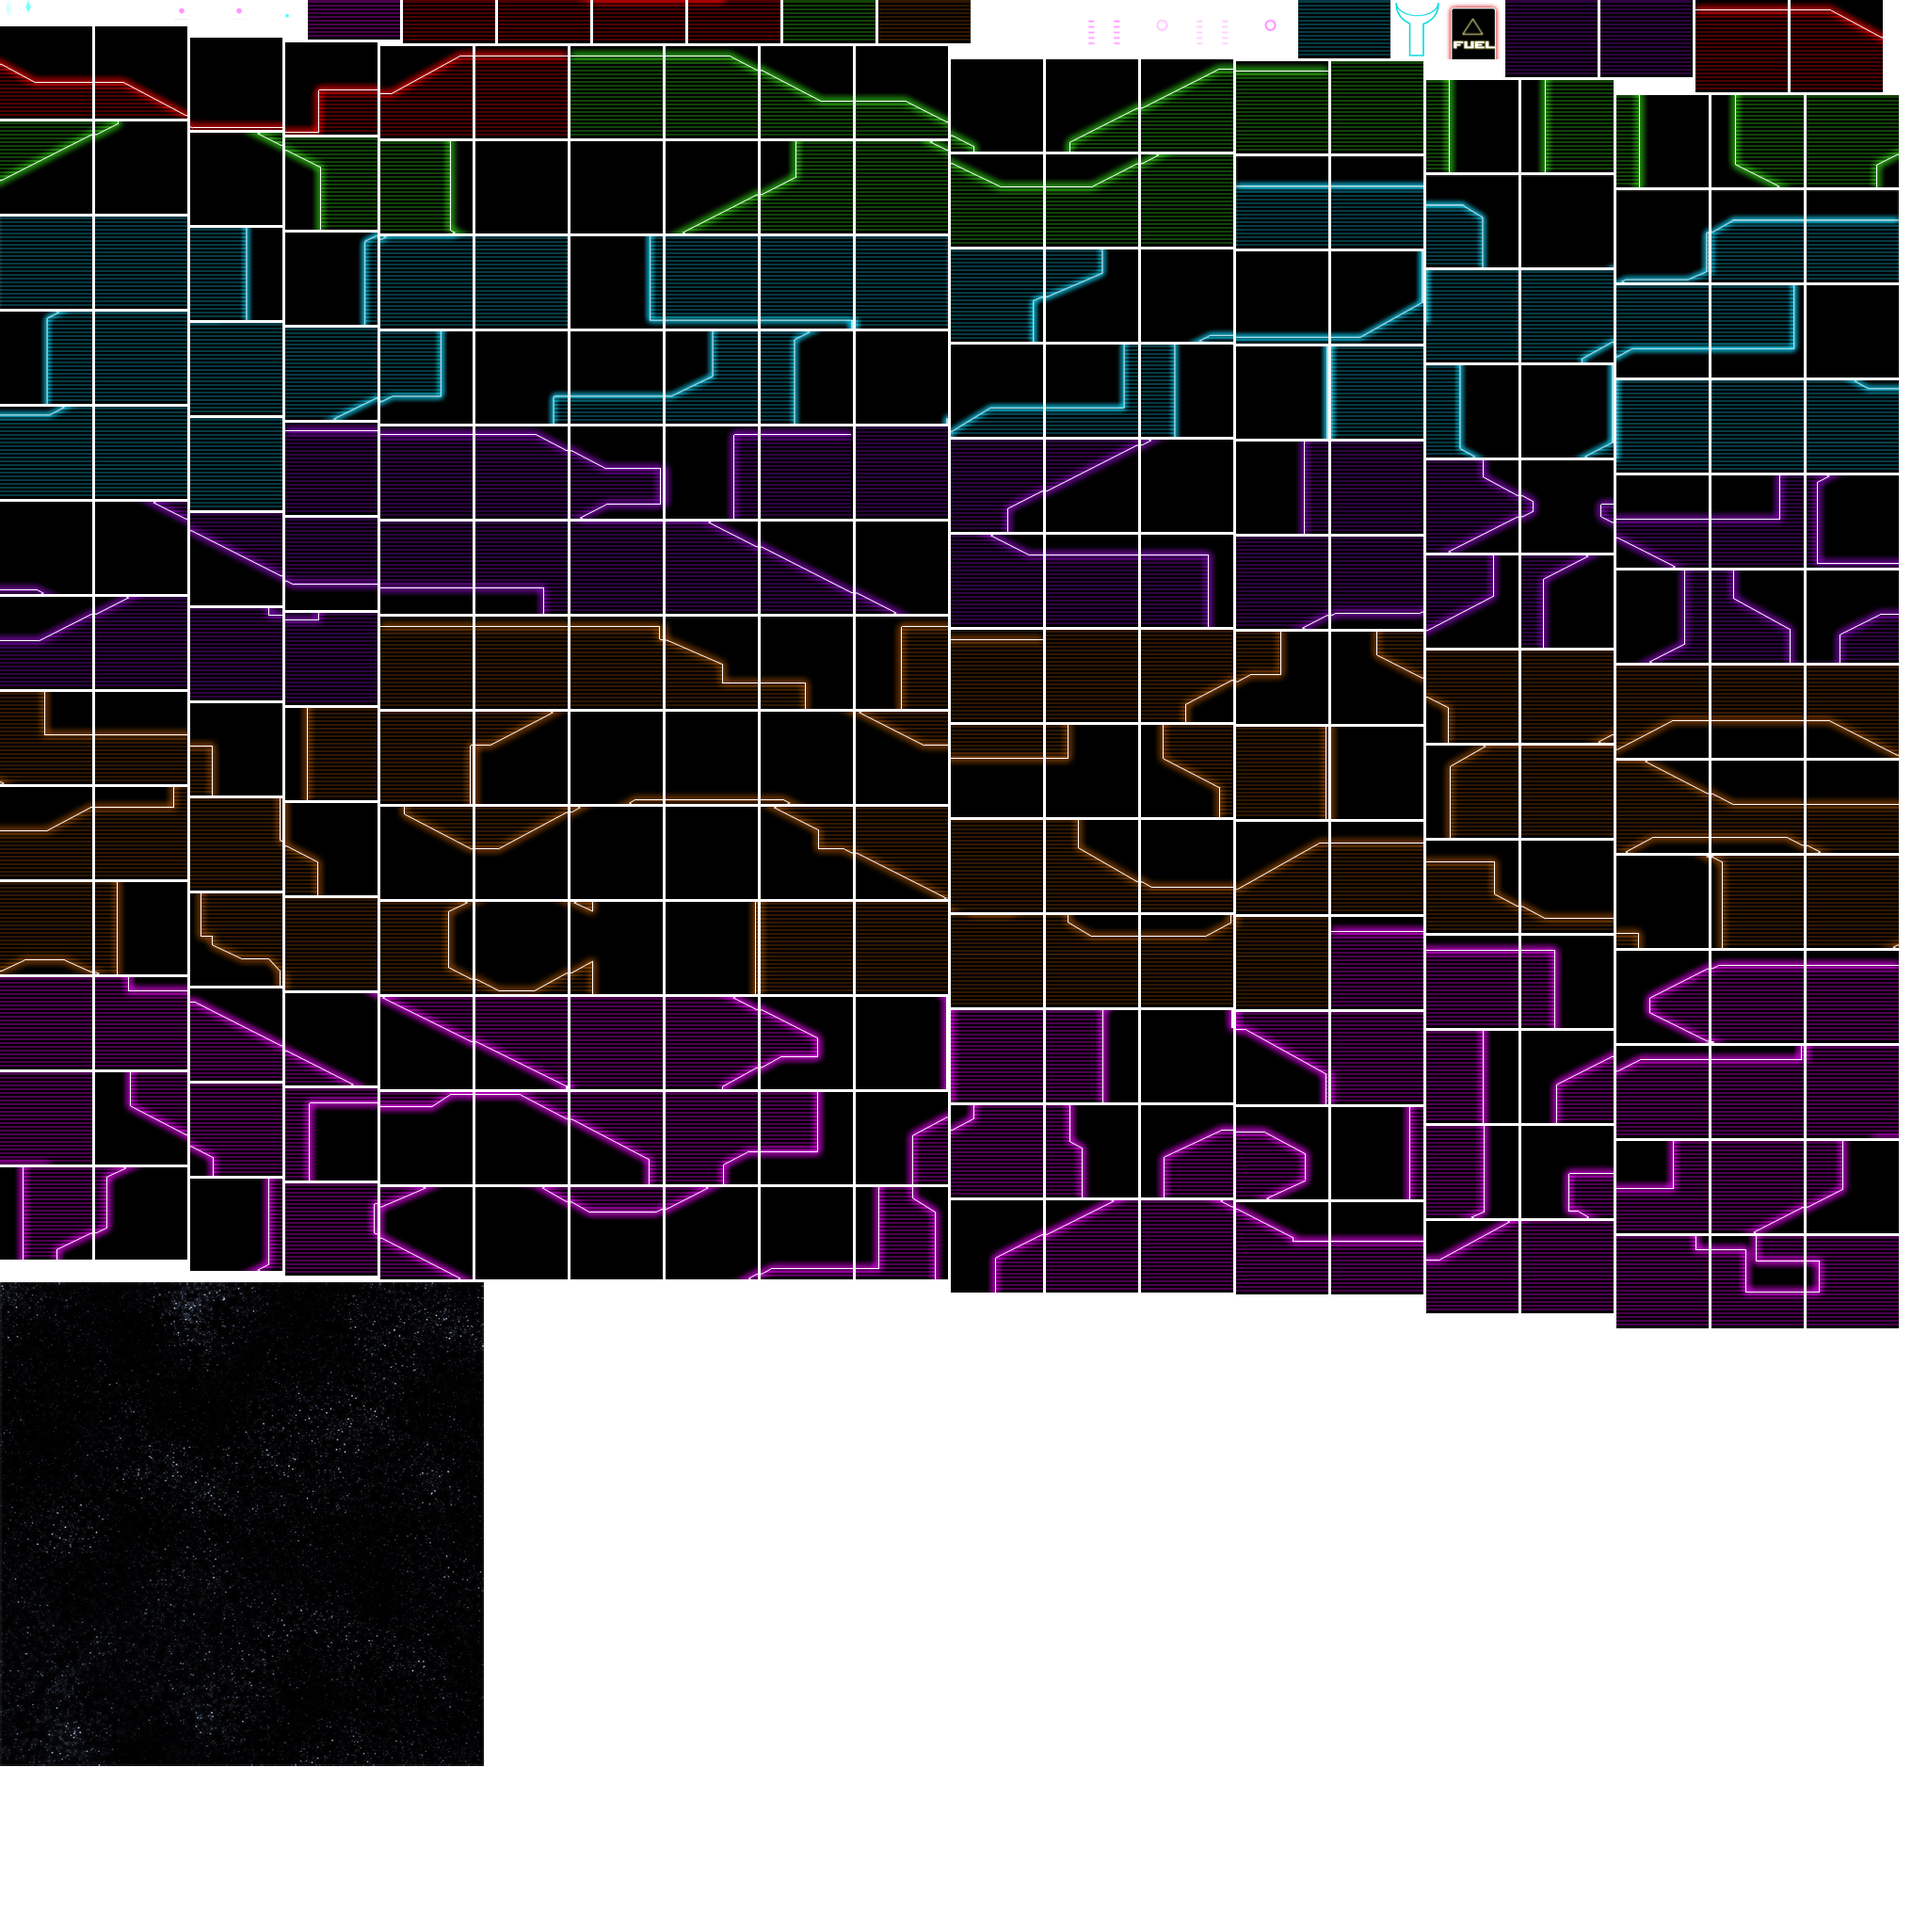
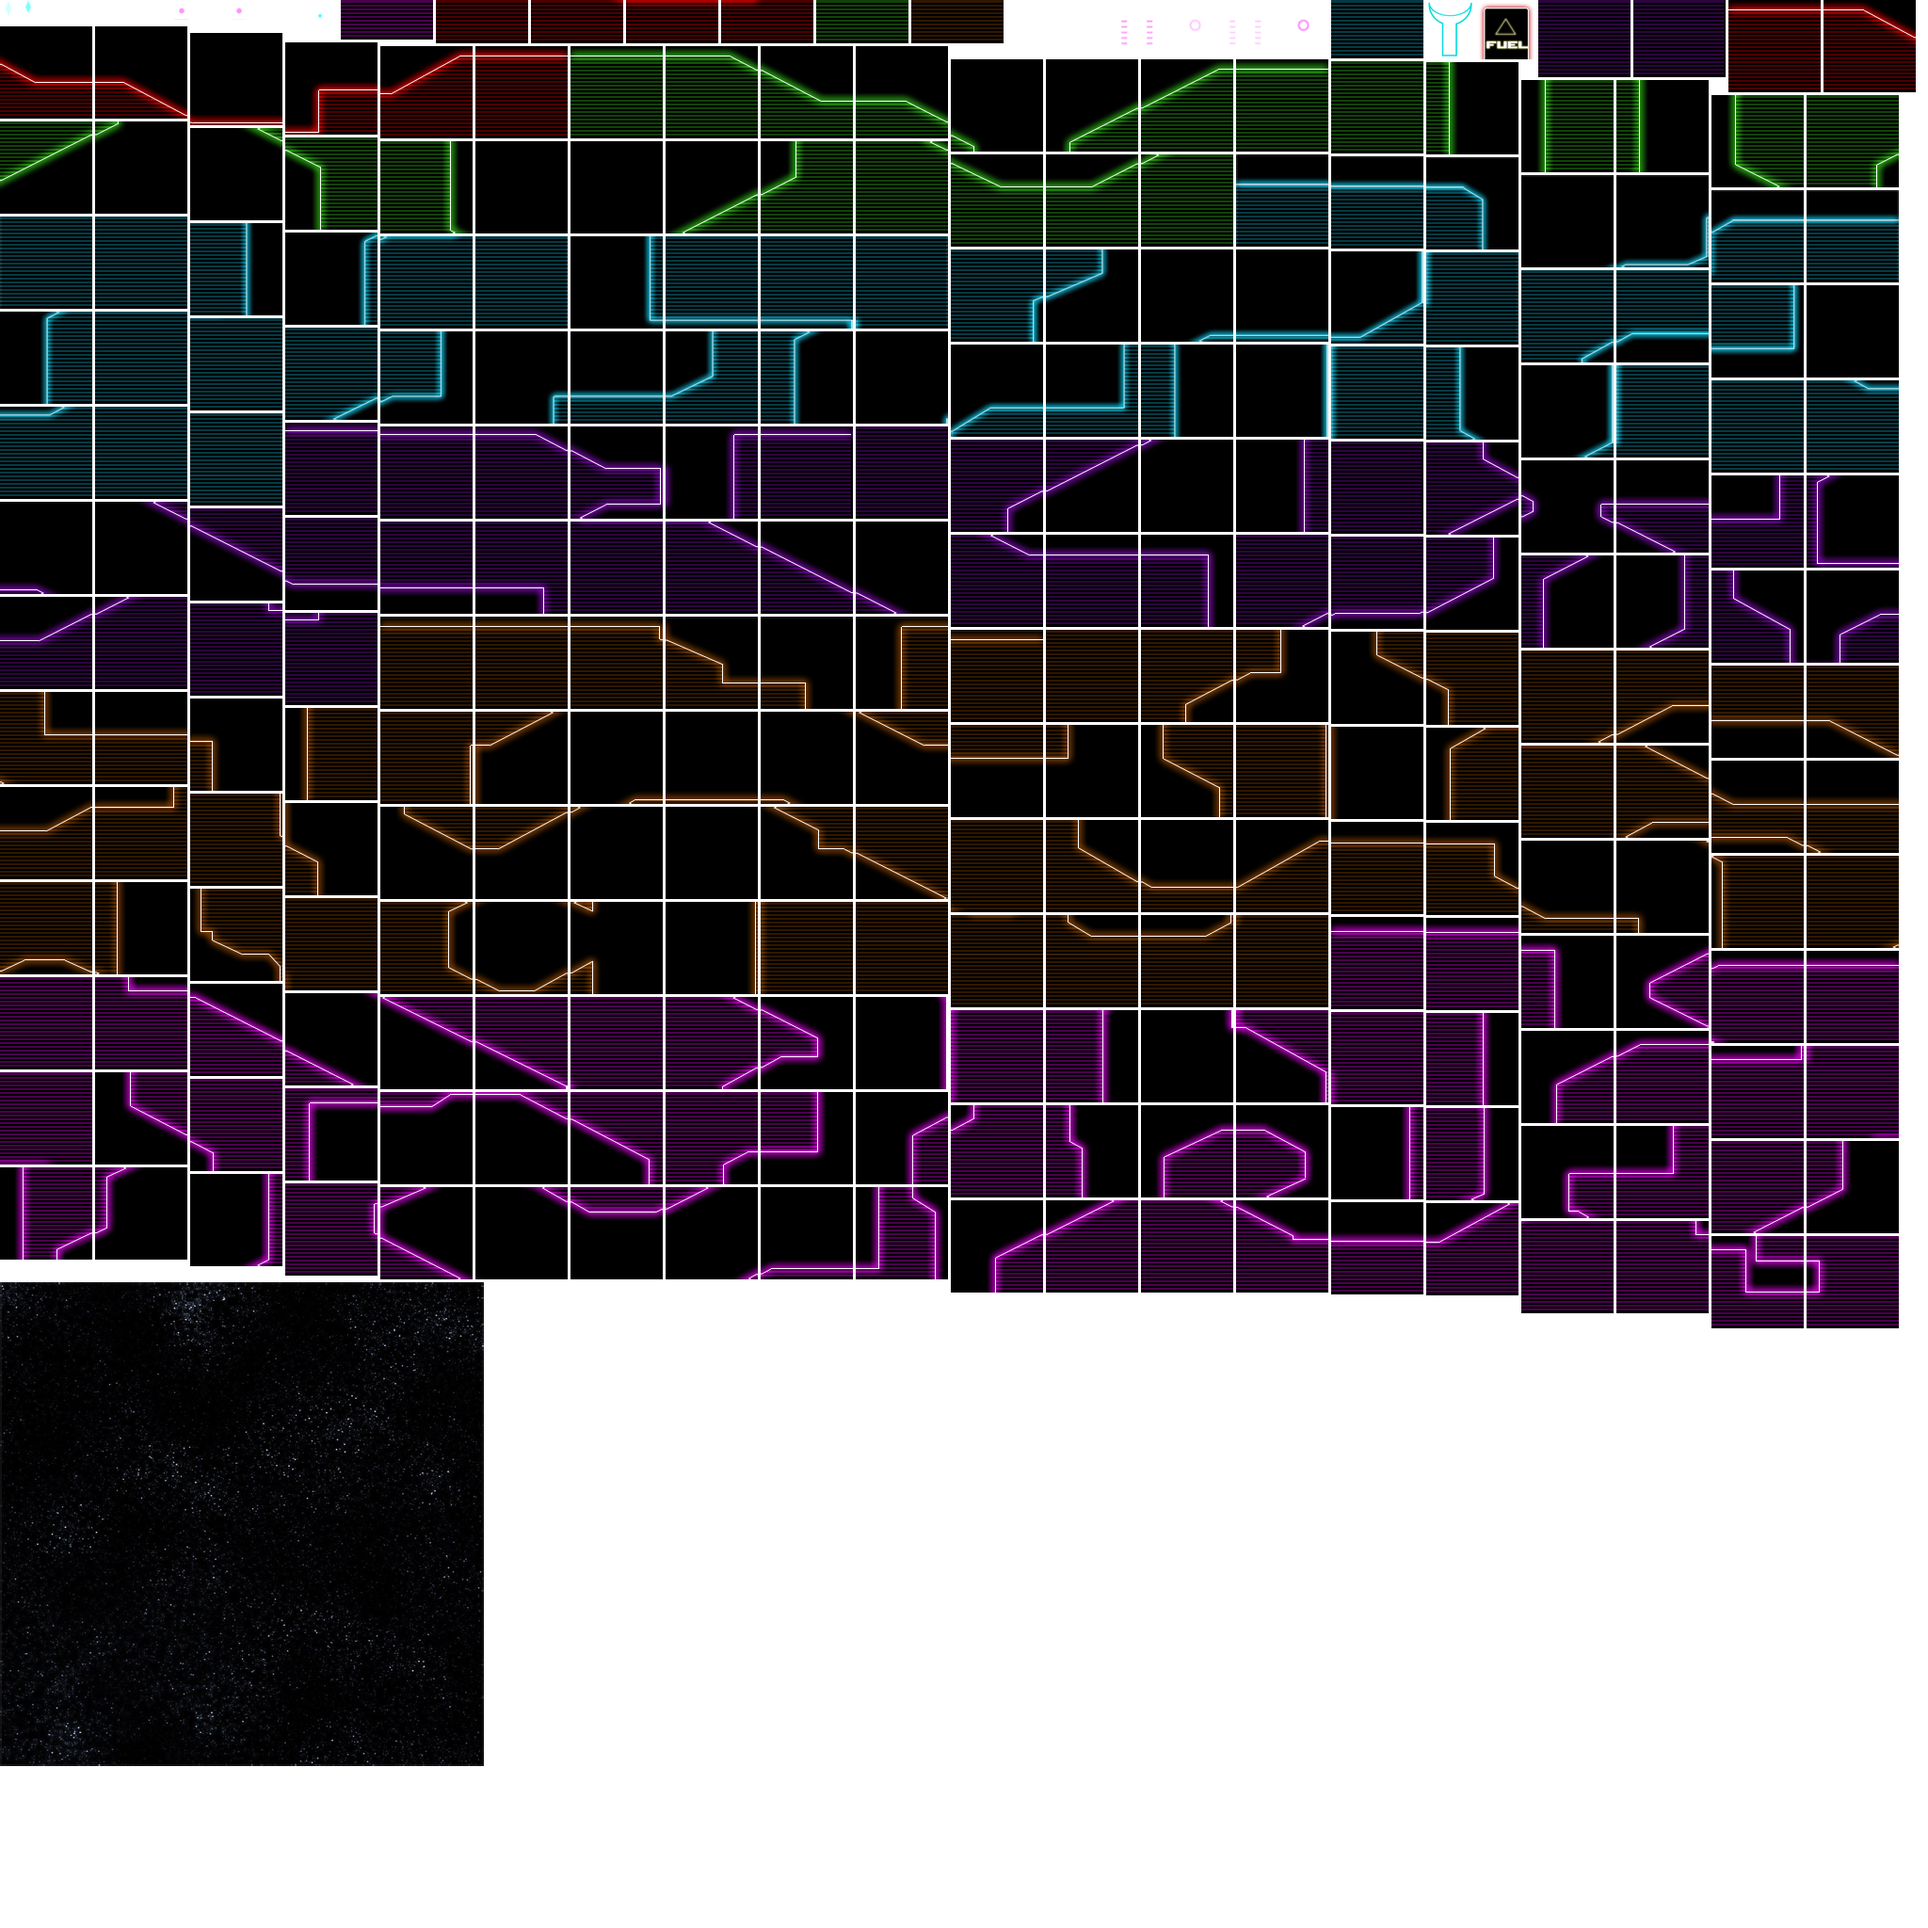
fixed training map and level gates

diff --git a/src/app/states/play.js b/src/app/states/play.js
@@ -495,7 +495,6 @@ module.exports = {
     this.groups = new Groups();
     this.collisions = new Collisions();
     if (properties.drawBackground) {
-      //gameState.trainingMode ? 'starfield' : 'stars';
       this.background = new Background(this.level);
     }
     particles.create();
@@ -517,7 +516,6 @@ module.exports = {
       this.collisions.set(this.orb.sprite, [this.collisions.players, this.collisions.terrain, this.collisions.enemyBullets]);
     } else {
       this.collisions.set(this.orb.sprite, [this.collisions.players, this.collisions.terrain, this.collisions.enemyBullets]);
-      //this.collisions.set(this.map, [this.collisions.players, this.collisions.orb]);
       this.createTrainingDrones();
     }
     this.cameraPos.x = this.player.x;
@@ -527,7 +525,7 @@ module.exports = {
   },
 
   createLevelMap: function() {
-    this.map = new MapAtlas(this.groups.terrain, this.level, this.level.useAtlas);
+    this.map = new MapAtlas(this.groups.terrain, this.level, 'combined', this.level.useAtlas);
     this.map.init();
     this.map.initPhysics(this.collisions);
     _.each(this.level.switches, _.bind(this.createSwitch, this));

diff --git a/src/app/actors/HoverDrone.js b/src/app/actors/HoverDrone.js
@@ -51,10 +51,10 @@ p.drawFlags = function (x, y, width) {
   var pos2 = new Phaser.Point(x, y - width / 2);
   var pos3 = new Phaser.Point(x + width / 2, y);
   var pos4 = new Phaser.Point(x, y + width / 2);
-  this.flag1 = game.add.sprite(pos1.x, pos1.y, 'drone', null, this.groups.drones);
-  this.flag2 = game.add.sprite(pos2.x, pos2.y, 'drone', null, this.groups.drones);
-  this.flag3 = game.add.sprite(pos3.x, pos3.y, 'drone', null, this.groups.drones);
-  this.flag4 = game.add.sprite(pos4.x, pos4.y, 'drone', null, this.groups.drones);
+  this.flag1 = game.add.sprite(pos1.x, pos1.y, 'combined', 'drone.png', this.groups.drones);
+  this.flag2 = game.add.sprite(pos2.x, pos2.y, 'combined', 'drone.png', this.groups.drones);
+  this.flag3 = game.add.sprite(pos3.x, pos3.y, 'combined', 'drone.png', this.groups.drones);
+  this.flag4 = game.add.sprite(pos4.x, pos4.y, 'combined', 'drone.png', this.groups.drones);
   this.flag1.anchor.setTo(0.5);
   this.flag2.anchor.setTo(0.5);
   this.flag3.anchor.setTo(0.5);

diff --git a/src/app/environment/levels/MapAtlas.js b/src/app/environment/levels/MapAtlas.js
@@ -12,13 +12,14 @@ var properties = require('../../properties');
  * @constructor
  * @param parentGroup
  * @param levelData
+ * @param key
  * @param isAtlas
  */
-function MapAtlas(parentGroup, levelData, isAtlas) {
+function MapAtlas(parentGroup, levelData, key, isAtlas) {
   this.isAtlas = isAtlas;
   this.x = levelData.mapPosition.x;
   this.y = levelData.mapPosition.y;
-  this.key = 'combined';
+  this.key = key;
   this.data = game.cache.getFrameData(this.key);
   this.group = game.add.group(parentGroup);
   this.parent = parentGroup;
@@ -125,6 +126,7 @@ p.initPhysics = function(collisions) {
     this.gateSprite.body.clearShapes();
     this.gateSprite.body.loadPolygon(this.gateCacheKey(), this.levelData.gateDataKey);
     this.gateSprite.body.setCollisionGroup(collisions.terrain);
+    collisions.set(this.gateSprite, [collisions.players, collisions.orb, collisions.bullets, collisions.enemyBullets]);
   }
 };
 

diff --git a/src/app/actors/GateSwitch.js b/src/app/actors/GateSwitch.js
@@ -26,7 +26,7 @@ function GateSwitch (collisions, groups, map, x, y, angleDeg) {
   bmd.ctx.closePath();
   bmd.ctx.stroke(); 
 
-  PhysicsActor.call(this, collisions, groups, bmd, x, y);
+  PhysicsActor.call(this, collisions, groups, bmd, null, x, y);
   this.map = map;
   this.angle = angleDeg;
   this.alive = true;
@@ -63,13 +63,7 @@ p.hit = function () {
   if (!this.timer) {
     this.timer = game.time.events.add(6000, this.closeGate, this);
   }
-  //
-  //particles.explode(this.x, this.y);
-  //this.kill();
-  //this.body.removeFromWorld();
-  //this.body.destroy();
-  //gameState.score+=gameState.SCORES.GateSwitch;
-  sound.playSound('boom3');
+  sound.playSound('select2');
 };
 
 p.closeGate = function() {

diff --git a/src/app/actors/Drone.js b/src/app/actors/Drone.js
@@ -46,8 +46,8 @@ p.drawFlags = function(x, y, width, rotation) {
   var pos = new Phaser.Point();
   pos.x = Math.cos(rotation) * width;
   pos.y = Math.sin(rotation) * width;
-  this.flag1 = game.add.sprite(x - pos.x, y + pos.y, 'drone', null, this.groups.drones);
-  this.flag2 = game.add.sprite(x + pos.x, y - pos.y, 'drone', null, this.groups.drones);
+  this.flag1 = game.add.sprite(x - pos.x, y + pos.y, 'combined', 'drone.png', this.groups.drones);
+  this.flag2 = game.add.sprite(x + pos.x, y - pos.y, 'combined', 'drone.png', this.groups.drones);
   var bmd = game.make.bitmapData(1, 1);
   bmd.rect(0,0,1,1, 'rgba(0, 255, 0, 0)');
   this.sensor = game.add.sprite(x + this.flag1.width/2, y, bmd);

diff --git a/src/app/properties.js b/src/app/properties.js
@@ -53,9 +53,10 @@ module.exports = {
       mapDataUrl: 'assets/levels/training.json',
       mapDataKey: 'training',
       mapScale: 2,
+      useAtlas: false,
       mapPosition: {
         x: 0,
-        y: 500
+        y: 1700
       },
       missionSwipe: {
         title: 'Flight Training',
@@ -68,13 +69,13 @@ module.exports = {
       },
       spawns: [{
         x: 1500,
-        y: 1500,
+        y: 1550,
         orb: false
       }],
       orbPosition: {x: 2600, y: 1732},
       orbHolder: {x: 2600, y: 1770}
     },
-    startLevel: 1,
+    startLevel: 4,
     data: [
       {
         useAtlas: true,
